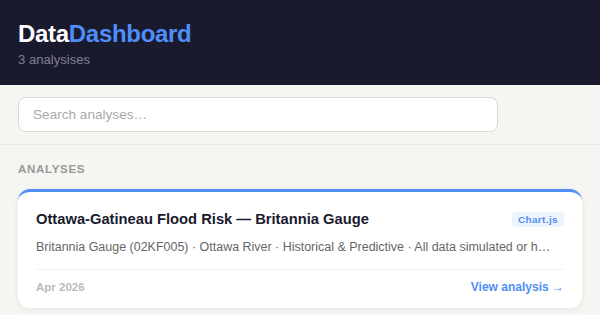
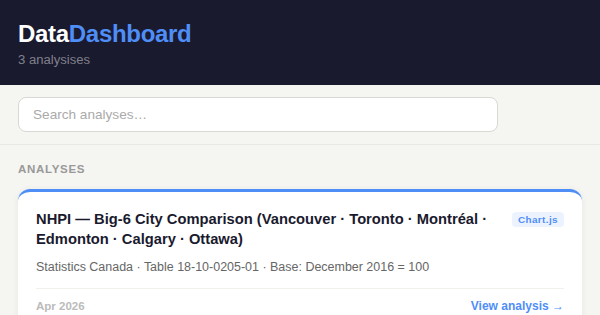
chore: update index, feed, previews, og tags [skip ci]

diff --git a/flood_risk_gatineau_ottawa.html b/flood_risk_gatineau_ottawa.html
@@ -4,28 +4,10 @@
   <!-- responsive-inject-v4 -->
   <style>
     @media (min-width: 769px) {
-      html, body { height: 100vh; overflow: hidden; margin: 0; padding: 0; }
-      body { max-width: 1200px; margin: 0 auto; display: flex; flex-direction: column; padding: 12px 24px !important; box-sizing: border-box; }
-      .panel { flex: 1; min-height: 0; display: none; flex-direction: column; overflow: hidden; }
-      .panel.active { display: flex !important; }
-      .panel > .card { flex: 1; min-height: 0; padding: 12px 20px 20px !important; margin-bottom: 8px !important; display: flex; flex-direction: column; overflow: hidden; position: relative; }
-      .gauge-chart-grid { flex: 1; min-height: 0; display: flex !important; gap: 16px !important; margin-bottom: 0 !important; }
-      .gauge-chart-wrap { flex: 1; min-height: 0 !important; height: auto !important; display: flex; flex-direction: column; margin-top: 4px !important; margin-bottom: 0 !important; }
-      .canvas-container { flex: 1; min-height: 0; position: relative; width: 100%; }
-      .canvas-container canvas { position: absolute !important; top: 0; left: 0; width: 100% !important; height: 100% !important; }
-      #floodMap { flex: 1; min-height: 0 !important; height: 100% !important; position: relative; }
-      .flood-note { margin-top: 2px !important; font-size: 0.65rem !important; margin-bottom: 0 !important; flex-shrink: 0; }
-      .vitals-grid { margin-bottom: 8px !important; gap: 8px !important; display: grid !important; grid-template-columns: repeat(6, 1fr) !important; flex-shrink: 0; }
-      .vital-card { padding: 6px !important; }
-      .vital-value { font-size: 1.1rem !important; }
-      .gauge-hero { margin-bottom: 8px !important; flex-shrink: 0; }
-      .threshold-legend { margin-bottom: 4px !important; flex-shrink: 0; }
-      h1 { font-size: 1.1rem !important; margin-bottom: 0 !important; flex-shrink: 0; }
-      .subtitle { margin-bottom: 8px !important; font-size: 0.72rem !important; flex-shrink: 0; }
-      .disclaimer { padding: 6px 10px !important; margin-bottom: 8px !important; font-size: 0.7rem !important; flex-shrink: 0; }
-      .tabs { margin-bottom: 8px !important; flex-shrink: 0; }
-      footer { margin-top: 4px !important; padding-bottom: 4px !important; font-size: 0.65rem !important; flex-shrink: 0; }
-      #impactStatement { margin-top: 4px !important; margin-bottom: 8px !important; padding: 4px 8px !important; font-size: 0.7rem !important; flex-shrink: 0; }
+      body { max-width: 1200px; margin: 0 auto; }
+      .panel > .card { height: 440px; }
+      .grid canvas { display: block; width: 100% !important; }
+      .grid .small-card canvas { height: 190px !important; }
     }
   </style>
   <script>
@@ -38,11 +20,6 @@
           C.defaults.maintainAspectRatio = false;
         }
       });
-      const v = '4';
-      if (window.location.search.includes('v=' + v)) return;
-      const url = new URL(window.location.href);
-      url.searchParams.set('v', v);
-      window.history.replaceState({}, '', url.toString());
     })();
   </script>
   <!-- /responsive-inject -->

diff --git a/nhpi_big6_comparison.html b/nhpi_big6_comparison.html
@@ -4,24 +4,10 @@
   <!-- responsive-inject-v4 -->
   <style>
     @media (min-width: 769px) {
-      html, body { height: 100vh; overflow: hidden; margin: 0; padding: 0; }
-      body { max-width: 1200px; margin: 0 auto; display: flex; flex-direction: column; padding: 12px 24px !important; box-sizing: border-box; }
-      #app { flex: 1; min-height: 0; display: flex; flex-direction: column; overflow: hidden; }
-      .card { flex: 1; min-height: 0; padding: 10px 20px !important; margin-bottom: 8px !important; display: flex; flex-direction: column; overflow: hidden; position: relative; }
-      .chart-wrap, .chart-sm { flex: 1; min-height: 0 !important; height: auto !important; margin-top: 4px !important; margin-bottom: 0 !important; position: relative !important; display: block !important; }
-      .chart-wrap canvas, .chart-sm canvas { position: absolute !important; top: 0 !important; left: 0 !important; bottom: 0 !important; right: 0 !important; width: 100% !important; height: 100% !important; }
-      .grid2 { flex: 1.2; min-height: 0; gap: 8px !important; margin-bottom: 4px !important; display: flex !important; }
-      .grid2 > .card { flex: 1; margin-bottom: 0 !important; }
-      .stats-grid { margin-bottom: 8px !important; gap: 6px !important; flex-shrink: 0; }
-      .stat { padding: 6px !important; }
-      .stat-val { font-size: 1.1rem !important; }
-
-      h1 { font-size: 1.1rem !important; margin-bottom: 0 !important; }
-      .subtitle { margin-bottom: 4px !important; font-size: 0.72rem !important; }
-      .notice { padding: 4px 10px !important; margin-bottom: 6px !important; font-size: 0.7rem !important; }
-      h2 { font-size: 0.8rem !important; margin-bottom: 4px !important; }
-      .controls { margin-bottom: 4px !important; }
-      .annotation { margin-top: 2px !important; font-size: 0.65rem !important; }
+      body { max-width: 1200px; margin: 0 auto; }
+      .panel > .card { height: 440px; }
+      .grid canvas { display: block; width: 100% !important; }
+      .grid .small-card canvas { height: 190px !important; }
     }
   </style>
   <script>

diff --git a/index.html b/index.html
@@ -226,23 +226,23 @@
 <main>
   <div class="grid-label">Analyses</div>
   <div class="grid" id="grid">
-      <a class="card" href="flood_risk_gatineau_ottawa.html" style="--accent:#4f8ef7">
-        <div class="card-top">
-          <div class="card-title">Ottawa-Gatineau Flood Risk — Britannia Gauge</div>
-          <div class="badges"><span class="badge">Chart.js</span></div>
-        </div>
-        <p class="card-desc">Britannia Gauge (02KF005) &middot; Ottawa River &middot; Live &amp; Historical &middot; Water Survey of Canada</p>
-        <div class="card-footer">
-          <span class="card-date">Apr 2026</span>
-          <span class="card-link">View analysis →</span>
-        </div>
-      </a>
-      <a class="card" href="nhpi_big6_comparison.html" style="--accent:#ff6384">
+      <a class="card" href="nhpi_big6_comparison.html" style="--accent:#4f8ef7">
         <div class="card-top">
           <div class="card-title">NHPI — Big-6 City Comparison (Vancouver · Toronto · Montréal · Edmonton · Calgary · Ottawa)</div>
           <div class="badges"><span class="badge">Chart.js</span></div>
         </div>
         <p class="card-desc">Statistics Canada · Table 18-10-0205-01 · Base: December 2016 = 100</p>
+        <div class="card-footer">
+          <span class="card-date">Apr 2026</span>
+          <span class="card-link">View analysis →</span>
+        </div>
+      </a>
+      <a class="card" href="flood_risk_gatineau_ottawa.html" style="--accent:#ff6384">
+        <div class="card-top">
+          <div class="card-title">Ottawa-Gatineau Flood Risk — Station 02KF005</div>
+          <div class="badges"><span class="badge">Chart.js</span></div>
+        </div>
+        <p class="card-desc">Ottawa River at Britannia (02KF005) &middot; Live &amp; Historical &middot; Water Survey of Canada</p>
         <div class="card-footer">
           <span class="card-date">Apr 2026</span>
           <span class="card-link">View analysis →</span>
